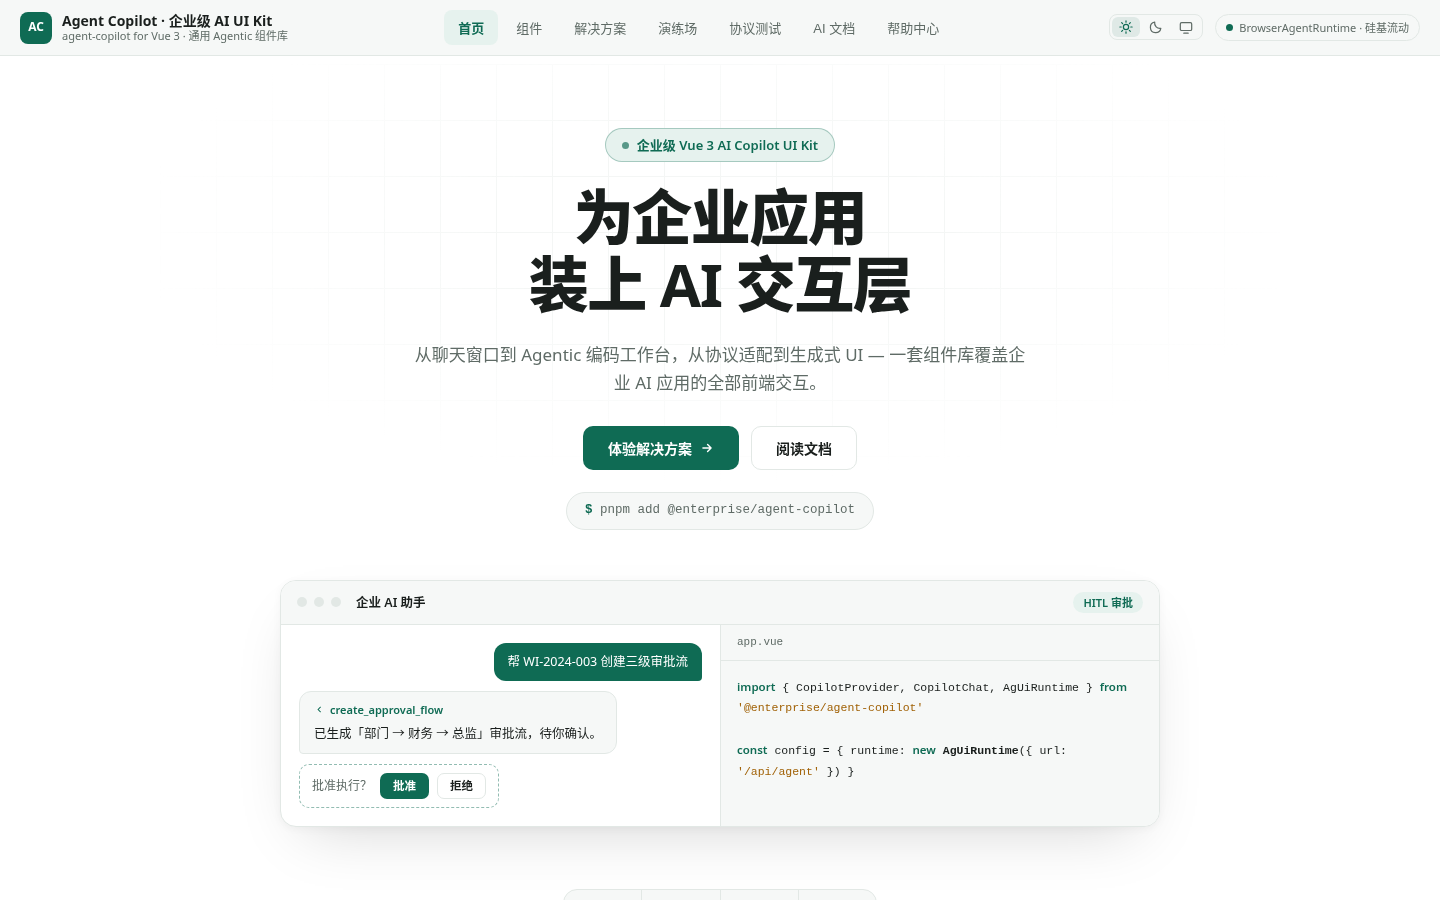
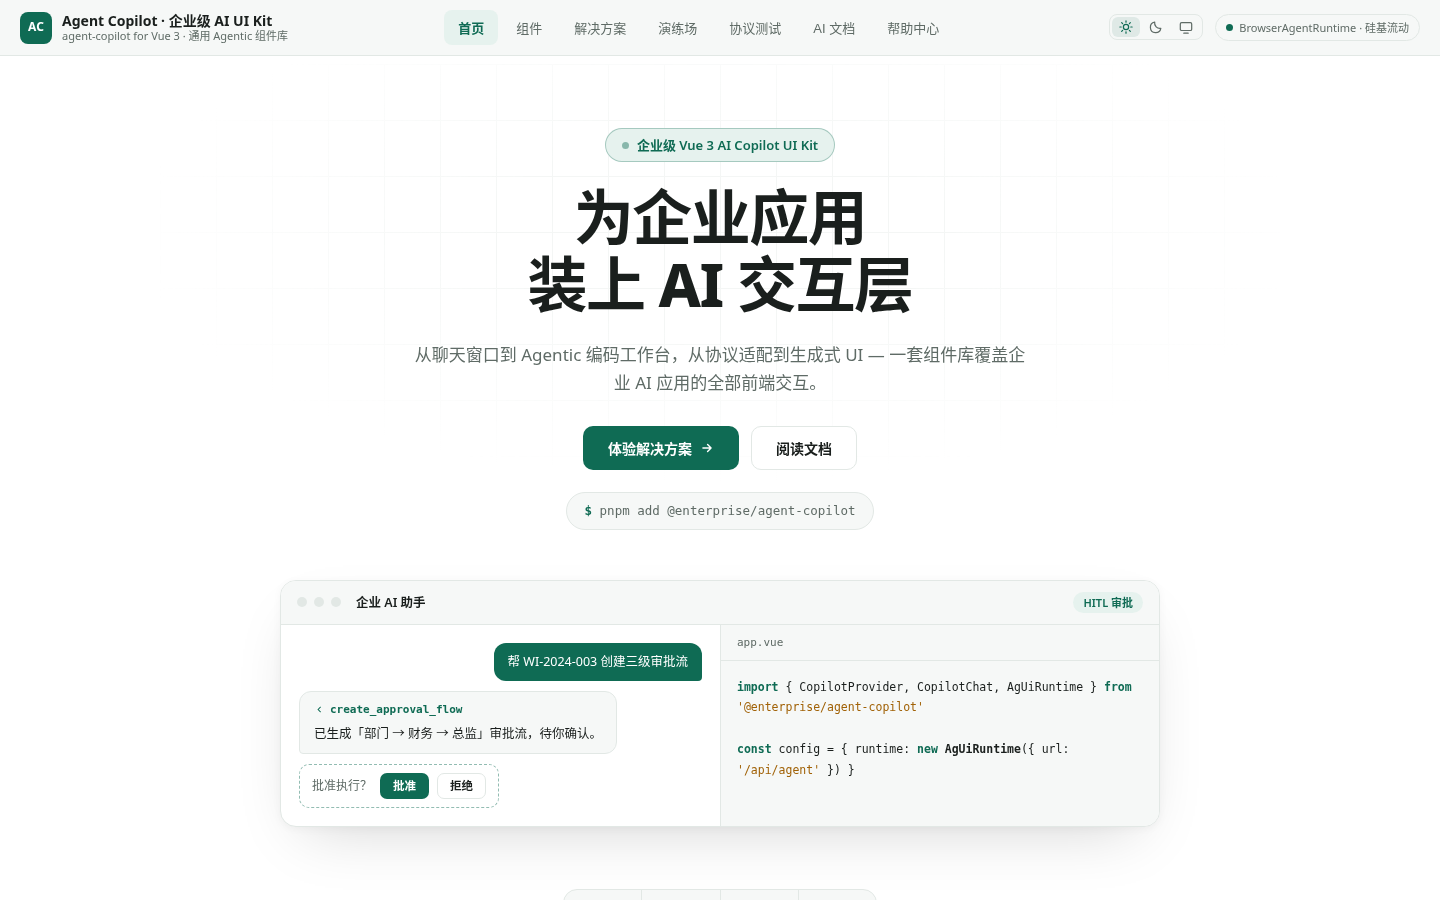
docs: recapture screenshots from the current build, protocol bench against the Java mock backend

diff --git a/README.en.md b/README.en.md
@@ -77,13 +77,15 @@ All 67 components grouped into 11 domains, with a full API cheat sheet (props / 
 
 40+ options tuned live: preview shape (workbench / chat), per-panel toggles for the top bar / left rail / right rail, input enhancements, floating widgets and agentic behaviour policies, with the configuration code generated alongside.
 
-![Configuration playground](docs/screenshots/playground.png)
+![Configuration playground (component locale set to en)](docs/screenshots/playground-en.png)
 
 ### Protocol tests
 
 A built-in protocol conformance bench covering AG-UI event-stream encoding/decoding, event ordering and interrupt/resume.
 
 ![Protocol tests](docs/screenshots/protocol.png)
+
+> Screenshots were re-captured from the current code: the Vite dev server on port 3000 with headless Chromium. The protocol bench ran against the bundled Java mock backend (`java-backend`, port 8080), and all 21 cases passed. The demo site itself is Chinese only, so the playground shot here has the component library's `locale` set to `en`, which switches the copilot UI text to English.
 
 ## Tech stack
 

diff --git a/README.md b/README.md
@@ -82,6 +82,8 @@ import { AgentCopilot } from '@/lib/agent-copilot'
 
 ![协议测试](docs/screenshots/protocol.png)
 
+> 截图按当前代码重新实拍：Vite 开发服务器（端口 3000）+ 无头 Chromium。协议测试台连接仓库自带的 Java mock 后端（`java-backend`，端口 8080）跑完了全部用例，21 / 21 通过。演示站本身只有中文界面；英文 README 里的演练场截图把组件库 `locale` 设成了 `en`。
+
 ## 目录结构
 
 ```
